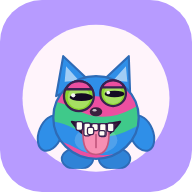
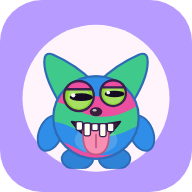
Fuggler-style ears and a clean tongue
- Cat ears are now wide, flared and soft-tipped, growing out of the
  corners of the head with no inner patch; the tie-dye mascot's ears are
  green like the reference
- Remove the two lower teeth that sat on top of tongues, on the mascot and
  every other monster with its tongue out
- Refresh the app icon

Claude-Session: https://claude.ai/code/session_01RZmKGLQgreBuhhMmrFwpo5

Changed region(s): [[0.5312, 0.25, 0.7812, 0.5312], [0.2188, 0.25, 0.4688, 0.5312], [0.4375, 0.6562, 0.5625, 0.7188]]

diff --git a/js/avatars.js b/js/avatars.js
@@ -54,9 +54,11 @@ function ears(spec, sh) {
   const top = sh.cy - sh.ry;
   switch (spec.shape) {
     case 'cat':
-      return `<path d="M22 ${top + 14} L27 ${top - 14} L46 ${top + 4}Z" fill="${c}" stroke="${edge}" stroke-width="1.5" stroke-linejoin="round"/>
-        <path d="M74 ${top + 14} L73 ${top - 14} L54 ${top + 4}Z" fill="${c}" stroke="${edge}" stroke-width="1.5" stroke-linejoin="round"/>
-        <path d="M28 ${top + 4} L29 ${top - 7} L38 ${top + 3}Z M72 ${top + 4} L71 ${top - 7} L62 ${top + 3}Z" fill="${inner}"/>`;
+      { // wide, flared, soft-tipped cat ears that grow out of the corners of the head (no inner patch)
+        const ec = spec.fur === 'tie' ? (spec.c3 || '#3fc98a') : c;
+        return `<path d="M24 ${top + 18} Q12 ${top - 2} 14 ${top - 13} Q15 ${top - 17} 20 ${top - 15} Q36 ${top - 8} 48 ${top + 4}Z" fill="${ec}" stroke="${edge}" stroke-width="1.5" stroke-linejoin="round"/>
+        <path d="M76 ${top + 18} Q88 ${top - 2} 86 ${top - 13} Q85 ${top - 17} 80 ${top - 15} Q64 ${top - 8} 52 ${top + 4}Z" fill="${ec}" stroke="${edge}" stroke-width="1.5" stroke-linejoin="round"/>`;
+      }
     case 'bunny':
       return `<ellipse cx="37" cy="${top - 6}" rx="7.5" ry="19" transform="rotate(-10 37 ${top - 6})" fill="${c}" stroke="${edge}" stroke-width="1.5"/>
         <ellipse cx="63" cy="${top - 6}" rx="7.5" ry="19" transform="rotate(10 63 ${top - 6})" fill="${c}" stroke="${edge}" stroke-width="1.5"/>
@@ -75,7 +77,7 @@ function tieBands(spec) {
   return `<path d="${w(40)}" fill="${c2}"/><path d="${w(54)}" fill="${c3}"/><path d="${w(68)}" fill="${spec.c}"/><path d="${w(81)}" fill="${c2}"/>`;
 }
 
-function teethSvg(kind, my, mx0, mx1) {
+function teethSvg(kind, my, mx0, mx1, lower = true) {
   const t01 = (x) => (x - mx0) / (mx1 - mx0);
   const top = (x) => my + 8 * t01(x) * (1 - t01(x));
   const bottom = (x) => my + 44 * t01(x) * (1 - t01(x));
@@ -86,7 +88,7 @@ function teethSvg(kind, my, mx0, mx1) {
   else if (kind === 'fangs') s += `<path d="M38 ${top(38)} l3 9 l3 -9Z M56 ${top(56)} l3 9 l3 -9Z" fill="#fffdf4" stroke="#3a2150" stroke-width=".9" stroke-linejoin="round"/>` + tooth(48, 4, 4);
   else if (kind === 'gap') s += tooth(38, 4.6, 6) + tooth(43.5, 4.6, 7) + tooth(55, 4.6, 7) + tooth(60.5, 4.6, 5);
   else s += tooth(36, 4.6, 6) + tooth(41.5, 4.6, 9) + tooth(47, 4.6, 5) + tooth(52.5, 4.6, 9) + tooth(58, 4.6, 6);
-  if (kind !== 'fangs') s += tooth(44, 4.4, 5, bottom(44) - 5) + tooth(52, 4.4, 4, bottom(52) - 4);
+  if (lower && kind !== 'fangs') s += tooth(44, 4.4, 5, bottom(44) - 5) + tooth(52, 4.4, 4, bottom(52) - 4);
   return s;
 }
 
@@ -127,7 +129,7 @@ function face(spec, sh, rnd, opts = {}) {
   } else {
     s += `<path d="M${mx0} ${my} Q50 ${my + 4} ${mx1} ${my} Q50 ${my + 24} ${mx0} ${my}Z" fill="#43203f" stroke="#2a1235" stroke-width="1.4" stroke-linejoin="round"/>`;
     if (mouth === 'tongue') s += `<path d="M41 ${my + 6} Q40 ${my + 23} 50 ${my + 23} Q60 ${my + 23} 59 ${my + 6}Z" fill="#f78fb3" stroke="#c4577e" stroke-width="1.2"/><path d="M50 ${my + 9} V${my + 18}" stroke="#c4577e" stroke-width="1.2" stroke-linecap="round"/>`;
-    s += teethSvg(spec.teeth, my, mx0, mx1);
+    s += teethSvg(spec.teeth, my, mx0, mx1, mouth !== 'tongue'); // no lower teeth poking over a tongue
   }
   if (sad) s += `<path d="M${rx2 + 12} ${ey - 16} q-3 6 0 9 q3 -3 0 -9Z" fill="#6ec6ff" stroke="#2f86c9" stroke-width="1"/>`;
   return { svg: s, ey, lx, rx2, lr, rr, my, mx0, mx1 };
